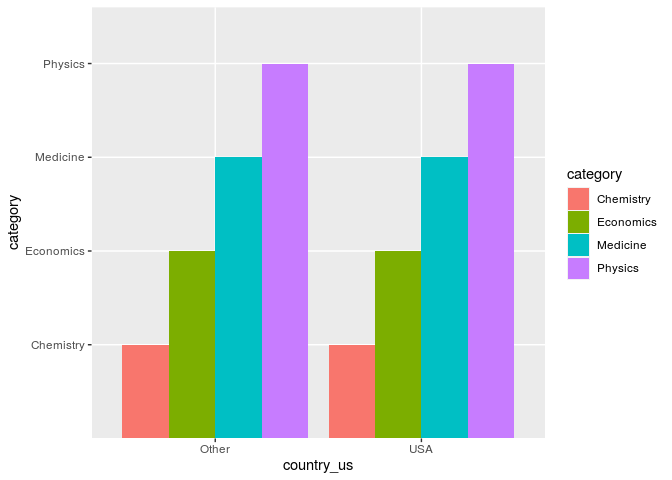
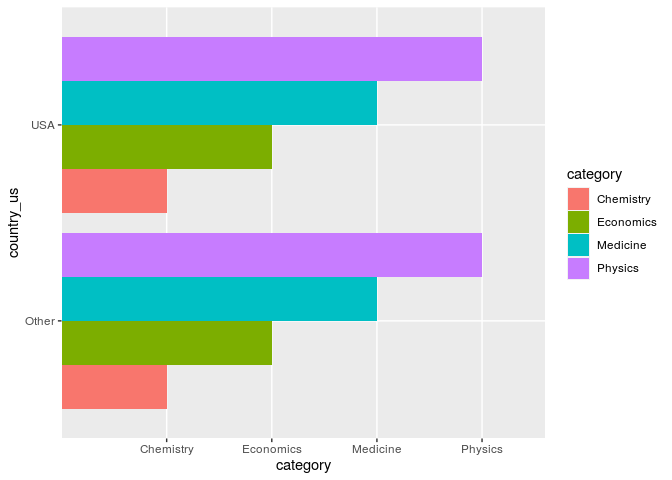
EX 3

diff --git a/lab-05.md b/lab-05.md
@@ -106,7 +106,9 @@ your Git pane is cleared up afterwards.d*
 
 ``` r
 nobel_living_science %>%
-ggplot(aes(x = country_us,y =category, fill = category))+ geom_bar(stat = "identity", position = "dodge", orientation="horizontal")
+    ggplot(aes(x = country_us,y=category, fill =category)) +
+   geom_bar(stat = "identity", position = "dodge") + 
+   coord_flip()
 ```
 
 ![](lab-05_files/figure-gfm/unnamed-chunk-6-1.png)<!-- -->
